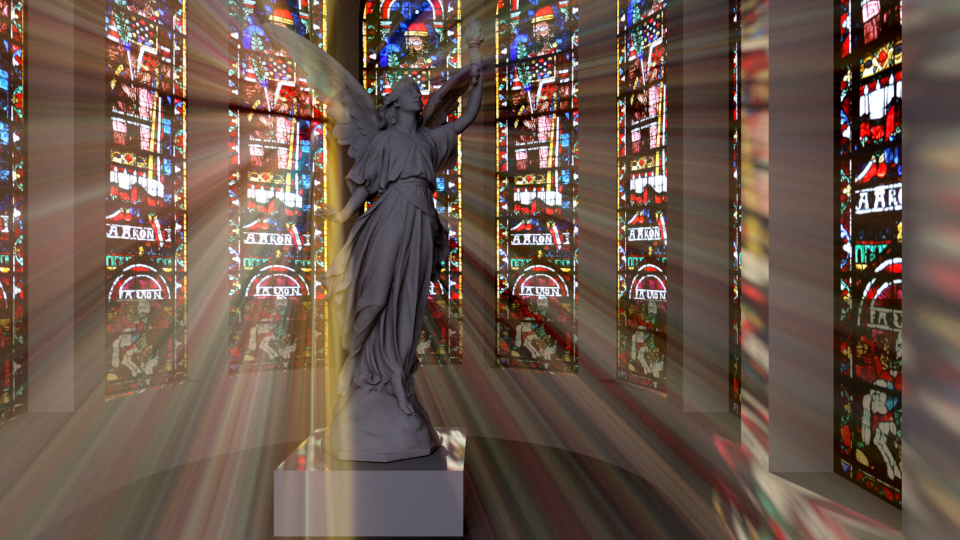
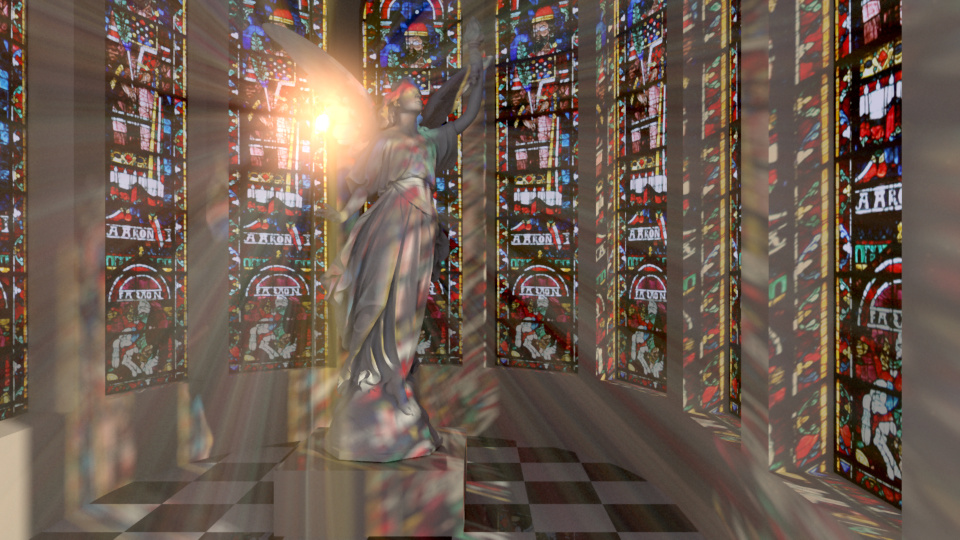
update README

diff --git a/examples/gothic/gothic.go b/examples/gothic/gothic.go
@@ -3,10 +3,12 @@ package main
 import (
 	. "github.com/barnex/bruteray/api"
 	"github.com/barnex/bruteray/geom"
+	"github.com/barnex/bruteray/post"
+	"github.com/barnex/bruteray/texture"
 )
 
 func main() {
-	wall := Matte(C(1, 0.9, 0.8).Mul(0.5))
+	wall := Matte(C(1, 0.9, 0.8).Mul(0.3))
 
 	H1 := 6.0
 	W1 := 6.0
@@ -27,6 +29,7 @@ func main() {
 		),
 	)
 
+	//glassT1 := White
 	glassT1 := LoadTexture("/home/arne/assets/stained1.jpg")
 	glassT2 := glassT1
 	glassT3 := glassT1
@@ -73,17 +76,15 @@ func main() {
 		glass3.Translate(V(+W1/4+winB/2, 0, 0)),
 	)
 
-	statue := Matte(White.EV(-.6))
-
-	piedestal := Box(statue, 1.7, 0.6, 1.7, O).WithCenterBottom(O)
+	piedestal := Box(wall, 1.7, 0.6, 1.7, O).WithCenterBottom(O)
 
 	//indirect ray goes through window, forgets it's indirect and
 	//uses scene.EvalAll instead of NonLuminous
 	Render(Spec{
-		Recursion:    2,
-		Width:        1920,
-		Height:       1080,
-		NumPass:      300,
+		Recursion:    4,
+		Width:        1920 / 2,
+		Height:       1920 / 3,
+		NumPass:      900,
 		DebugNormals: 0,
 		Objects: []Object{
 
@@ -96,40 +97,48 @@ func main() {
 			),
 
 			piedestal,
-			//ObjFile(
-			//	map[string]Material{
-			//		"Eye-White":    Shiny(White, 0.1),
-			//		"Material":     Shiny(Black, 0.05),
-			//		"Material.001": Shiny(Black, 0.05),
-			//		"NoseTop":      statue,
-			//		"Tooth":        Shiny(White, 0.1),
-			//		"SkinColor":    Matte(White.EV(-1.3)),
-			//		"Body":         Matte(White.EV(-1.0)),
-			//	},
-			//	"/home/arne/assets/gopher.obj",
-			//	geom.Scale(O, 0.5),
-			//	geom.Rotate(O, Ey, -90*Deg),
-			//).WithCenterBottom(piedestal.CenterTop()),
 			ObjFile(
-				map[string]Material{"": statue},
+				map[string]Material{"": Shiny(White.EV(-.9), 0.03)},
 				"/home/arne/assets/Alucy.obj",
 				geom.Scale(O, 5./1000.),
 				geom.Rotate(O, Ey, 90*Deg),
-			).WithCenterBottom(piedestal.CenterTop()),
+			).WithCenterBottom(piedestal.CenterTop()).Rotate(Ey, -30*Deg),
 
-			Rectangle(Matte(White.EV(-2)), 100, 100, V(0, .01, 0)),
-			Backdrop(Flat(C(0.8, 0.8, 1.0).EV(-0.6))),
+			Rectangle(
+				BlendMap(
+					texture.Checkers(4, 4, White, Black),
+					Matte(White.EV(-1)),
+					Shiny(White.EV(-4), 0.06),
+				),
+				W1, W1, V(0, .01, 0)),
+			Rectangle(Flat(White.EV(-2)), 100, 100, V(0, .001, 0)),
+			//Backdrop(Flat(C(0.8, 0.8, 1.0).EV(-0.6))),
+			Backdrop(Flat(C(0.8, 0.8, 1.0).EV(1.0))),
+			Box(Flat(Black), 6, 6, 0.01, V(0, 3, 4)),
 		},
 		Lights: []Light{
-			SunLight(C(1, 0.9, 0.7).EV(1.3), 0.8*Deg, 13*Deg, 12*Deg),
-			//SunLight(C(1, 0.9, 0.7).EV(0.6), .8*Deg, -110*Deg, 35*Deg),
-			//PointLight(White.EV(4), V(1, H1, 4)),
+			//SunLight(C(1, 0.9, 0.7).EV(1.1), 0.8*Deg, 3.5*Deg, 18*Deg),
+			SunLight(C(1, 0.9, 0.7).EV(0.9), 0.8*Deg, -126*Deg, 18*Deg),
+			PointLight(C(1, 1, 1).EV(3.9), V(0.8, 4.5, 1.5)),
 		},
 
 		Media: []Medium{
-			Fog(0.025, H2),
+			Fog(0.05, H2, 1),
 		},
 
-		Camera: Projective(70*Deg, O, 0, 0).Translate(V(1, 2.4, 7.0)),
+		Camera: ProjectiveAperture(50*Deg, 0.04, 2.30, O, 0, -1*Deg).Translate(V(0.4, 3.9, 2.8)),
+
+		PostProcess: post.Params{
+			Gaussian: post.BloomParams{
+				Radius:    0.02,
+				Threshold: 1.5,
+				Amplitude: 0.005,
+			},
+			//Airy: post.BloomParams{
+			//	Radius:    0.002,
+			//	Threshold: 5,
+			//	Amplitude: 0.002,
+			//},
+		},
 	})
 }

diff --git a/examples/damaliscus/damaliscus.go b/examples/damaliscus/damaliscus.go
@@ -1,0 +1,44 @@
+package main
+
+import (
+	. "github.com/barnex/bruteray/api"
+	"github.com/barnex/bruteray/post"
+)
+
+func main() {
+
+	skull := PlyFile(Matte(C(1, 1, 0.9).EV(-.6)), "assets/damaliscus.ply").ScaleToSize(0.4).Rotate(Ez, -30*Deg).WithCenterBottom(O)
+	sand := IsoSurface(Matte(C(1, 0.8, 0.5).EV(-.9)), 3, 0.007, 3, LoadHeightMap("assets/lava2.png").Scale(0.5, 0.5).HeightMap()).WithCenterBottom(O)
+
+	Render(Spec{
+		Recursion:    3,
+		Width:        1920 / 1,
+		Height:       1080 / 1,
+		NumPass:      900,
+		DebugNormals: 0,
+		Objects: []Object{
+			skull.Rotate(Ey, 20*Deg).Rotate(Ex, 5*Deg).WithCenterBottom(V(0, -0.18, 0)),
+			sand,
+			Backdrop(Flat(C(0.8, 0.8, 1.0).EV(-1.9))),
+		},
+		Lights: []Light{
+			SunLight(C(1, 0.9, 0.7).EV(1.0), 0.8*Deg, 33*Deg, 25*Deg),
+			//SunLight(C(1, 0.9, 0.7).EV(0.7), 1.2*Deg, -130*Deg, 24*Deg),
+		},
+
+		Media: []Medium{
+			Fog(0.1, 1, 1),
+			//ExpFog(1, White, 1),
+		},
+
+		Camera: ProjectiveAperture(75*Deg, 0.004, 0.50, V(-0.05, 0.15, 0.4), 0*Deg, -12*Deg),
+
+		PostProcess: post.Params{
+			Gaussian: post.BloomParams{
+				Radius:    0.005,
+				Threshold: 1.1,
+				Amplitude: 1,
+			},
+		},
+	})
+}

diff --git a/tracer/media/fog.go b/tracer/media/fog.go
@@ -6,16 +6,18 @@ import (
 	. "github.com/barnex/bruteray/tracer/types"
 )
 
-func Fog(density float64, height float64) Medium {
+func Fog(density float64, height float64, numLight int) Medium {
 	return &fog{
-		density: density,
-		height:  height,
+		density:  density,
+		height:   height,
+		numLight: numLight,
 	}
 }
 
 type fog struct {
-	density float64
-	height  float64
+	density  float64
+	height   float64
+	numLight int
 }
 
 // TODO: not correct when camera is in fog?
@@ -35,7 +37,10 @@ func (m *fog) Filter(ctx *Ctx, s *Scene, r *Ray, tMax float64, orig Color) Color
 	sec := ctx.Ray()
 	//defer ctx.PutRay(sec)
 
-	for _, l := range s.Lights() {
+	for i, l := range s.Lights() {
+		if i == m.numLight {
+			break
+		}
 		lpos, intens := l.Sample(ctx, p)
 		if intens == (Color{}) {
 			continue

diff --git a/tracer/materials/transparent.go b/tracer/materials/transparent.go
@@ -26,6 +26,7 @@ func (m *transparent) Eval(ctx *Ctx, s *Scene, r *Ray, h HitCoords) Color {
 	defer ctx.PutRay(r2)
 	// No caustics please
 	return s.EvalMinusLights(ctx, r2).Mul3(m.t.At(h.Local))
+	//return s.Eval(ctx, r2).Mul3(m.t.At(h.Local))
 }
 
 func (m *transparent) Filter(r *Ray, h HitRecord, background Color) Color {

diff --git a/api/api.go b/api/api.go
@@ -65,6 +65,7 @@ var (
 	Flat        = materials.Flat
 	Shiny       = materials.Shiny
 	Blend       = materials.Blend
+	BlendMap    = materials.BlendMap
 	//ReflectFresnel = materials.ReflectFresnel
 
 	ExpFog = media.ExpFog

diff --git a/README.md b/README.md
@@ -1,31 +1,23 @@
-# Bruteray
-[![GoDoc](https://godoc.org/github.com/barnex/bruteray/api?status.svg)](https://godoc.org/github.com/barnex/bruteray/api)
+# BruteRay  [![GoDoc](https://godoc.org/github.com/barnex/bruteray/api?status.svg)](https://godoc.org/github.com/barnex/bruteray/api)
 
 ![fig](mascot.jpg) 
 
-Bruteray is physics-based ray tracer in Go.
+Physics-based ray tracer in Go.
 
-
-## Features:
-
-  * Physically accurate lighting (incl. global illuminiation)
-  * Volumetric effects
-  * Reflections and refraction
-  * Depth of field
 
 ## Gallery
 
-A few scenes rendered by bruteray:
-
-![Newell teapot ray-traced in Go](shots/2024-teapot.jpg) 
-![Stanford Lucy ray-traced in Go with volumetric scattering](shots/2025-teapot.jpg) 
+![Newell teapot ray-traced in golang (go)](shots/2024-teapot.jpg) 
+![Damaliscus Korrigum skull ray traced in Golang (Go), with volumetric scattering](shots/2027-damaliscus.jpg) 
+![Stanford Lucy ray-traced in Go with volumetric scattering](shots/2029-lucy.jpg) 
 ![Stanford Dragon ray-traced in Go](shots/2026-pool.jpg) 
-![fig](shots/063.jpg) 
+![Moebius strip ray-traced in Go](shots/2010-uvmap.jpg) 
+![fig](shots/cementary.jpg) 
 ![fig](shots/principia.jpg) 
 ![fig](shots/bouy.jpg) 
+![fig](shots/063.jpg) 
 ![fig](shots/check.jpg) 
 ![fig](shots/gothic.jpg) 
-![fig](shots/cementary.jpg) 
 
 ## Cornell box
 
@@ -37,7 +29,13 @@ The [Cornell box](https://en.wikipedia.org/wiki/Cornell_box) is a standard scene
 
 
 ----
-The Go gopher was designed by Renee French. (http://reneefrench.blogspot.com/) The gopher 3D model was made by Takuya Ueda (https://twitter.com/tenntenn). Licensed under the Creative Commons 3.0 Attributions license.
+The Go gopher was designed by Renee French (http://reneefrench.blogspot.com/).
+The gopher 3D model was made by Takuya Ueda (https://twitter.com/tenntenn).
+The statues "Lucy", "Bunny" and "Dragon" are from the [Stanford 3D scanning repository](http://graphics.stanford.edu/data/3Dscanrep/). 
+Damaliscus Korrigum skull from [artec3d.com](https://www.artec3d.com).
+Other 3D modes from [free3d.com](http://free3d.com).
+
+Licensed under the Creative Commons 3.0 Attributions license. 
 <a rel="license" href="http://creativecommons.org/licenses/by/3.0/deed.ja">
     <img alt="Creative Commons licensing" style="border-width:0" src="http://i.creativecommons.org/l/by/3.0/88x31.png" />
 </a>
